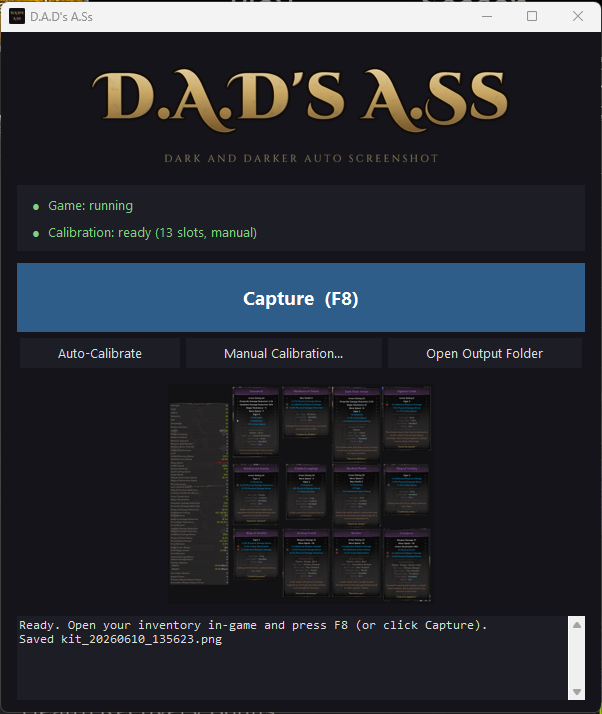
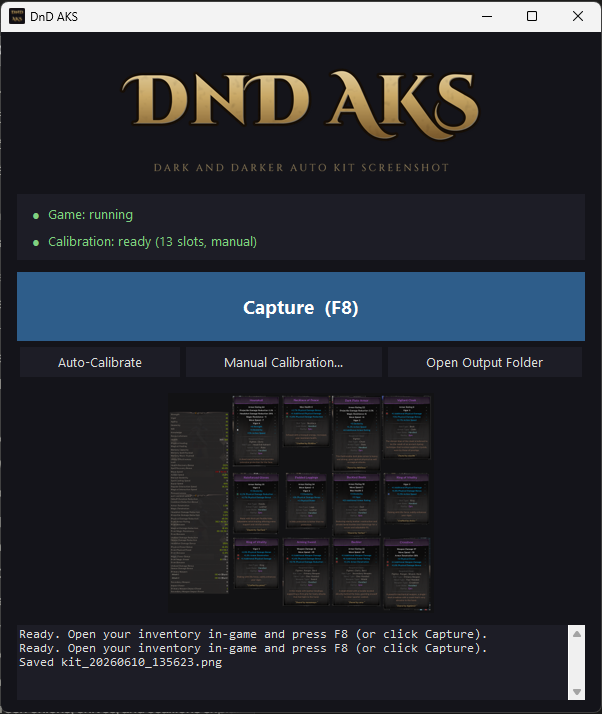
Rebrand to DnD AKS (Dark and Darker Auto Kit Screenshot)
Drops the previous joke name for a professional one suitable for
sharing on job sites / portfolios.

- Logo + icon regenerated (make_logo.py): 'DnD AKS' chiseled title,
  'Dark and Darker Auto Kit Screenshot' tagline
- GUI window title -> 'DnD AKS' (must stay free of the game's name so
  find_game_window can't match the app's own window), header logo +
  fallback text updated
- Calibration overlay titles -> 'DnD AKS — …'
- README title/alt + GUI hero screenshot refreshed
- VirusTotal verify section updated to the new build's SHA-256

Exe filename (AutoKitScreenshot.exe) and repo slug unchanged to keep
existing download links working.

diff --git a/gui.py b/gui.py
@@ -39,9 +39,10 @@ PREVIEW_MAX_H = 220
 class AutoKitGUI:
     def __init__(self):
         self.root = tk.Tk()
-        # NOTE: the title must NOT contain the game's name — find_game_window
-        # matches window titles, and we must never match ourselves.
-        self.root.title("D.A.D's A.Ss")
+        # NOTE: the title must NOT contain the game's name ("Dark and Darker")
+        # — find_game_window() matches window titles, so a title with the game
+        # name would make the tool match itself. Keep it as the acronym only.
+        self.root.title("DnD AKS")
         ico = resource_path("assets/icon.ico")
         if ico.exists():
             try:
@@ -79,9 +80,9 @@ class AutoKitGUI:
         if self._logo_photo is not None:
             tk.Label(self.root, image=self._logo_photo, bg=BG).pack(pady=(14, 2))
         else:
-            tk.Label(self.root, text="D.A.D's A.Ss",
+            tk.Label(self.root, text="DnD AKS",
                      font=("Segoe UI", 16, "bold"), fg=FG, bg=BG).pack(pady=(14, 2))
-            tk.Label(self.root, text="Dark and Darker Auto Screenshot",
+            tk.Label(self.root, text="Dark and Darker Auto Kit Screenshot",
                      font=("Segoe UI", 9), fg=FG_DIM, bg=BG).pack()
 
         # Status panel

diff --git a/make_logo.py b/make_logo.py
@@ -1,5 +1,5 @@
 """
-Generate the D.A.D's A.Ss logo + exe icon in a Dark-and-Darker-ish style:
+Generate the DnD AKS logo + exe icon in a Dark-and-Darker-ish style:
 chiseled gold capitals, dark outline, weathered texture.
 
 Outputs:
@@ -115,10 +115,10 @@ def render_text(text, font_px, pad=None):
 
 
 def make_logo():
-    title = render_text("D.A.D's A.Ss", 110)
+    title = render_text("DnD AKS", 120)
 
     # tagline in lighter letterspaced caps
-    tag_text = "D A R K   A N D   D A R K E R   A U T O   S C R E E N S H O T"
+    tag_text = "D A R K   A N D   D A R K E R   A U T O   K I T   S C R E E N S H O T"
     tag_font = ImageFont.truetype(str(TAG_FONT), 17 * SS)
     probe = ImageDraw.Draw(Image.new("L", (8, 8)))
     tb = probe.textbbox((0, 0), tag_text, font=tag_font)
@@ -138,8 +138,8 @@ def make_logo():
 
 
 def make_icon():
-    line1 = render_text("D.A.D's", 96)
-    line2 = render_text("A.Ss", 96)
+    line1 = render_text("DnD", 104)
+    line2 = render_text("AKS", 104)
 
     side = max(line1.width, line2.width, line1.height + line2.height) + 24 * SS
     bg = Image.new("RGBA", (side, side), (16, 14, 20, 255))

diff --git a/calibrate.py b/calibrate.py
@@ -104,7 +104,7 @@ def run_calibration(parent=None, emit=print):
     Tk app instead of creating its own root."""
     steps = build_steps()
     overlay = CalibrationOverlay(
-        title="D&D Full Calibration",
+        title="DnD AKS — Full Calibration",
         intro="Open your inventory in-game with the Details panel CLOSED. "
               "Follow the prompts: hover each target and press SPACE.",
         steps=steps,

diff --git a/calibrate_stats.py b/calibrate_stats.py
@@ -51,7 +51,7 @@ def main():
     config = json.loads(CONFIG_PATH.read_text())
 
     overlay = CalibrationOverlay(
-        title="D&D Stats Calibration",
+        title="DnD AKS — Stats Calibration",
         intro="Open the inventory and click 'Open Details' first so the scroll bar is visible.",
         steps=STEPS,
     )

diff --git a/README.md b/README.md
@@ -1,6 +1,6 @@
-<p align="center"><img src="assets/logo.png" alt="D.A.D's A.Ss — Dark and Darker Auto Screenshot" width="560"></p>
+<p align="center"><img src="assets/logo.png" alt="DnD AKS — Dark and Darker Auto Kit Screenshot" width="560"></p>
 
-# AutoKitScreenshot
+# DnD AKS — Dark and Darker Auto Kit Screenshot
 
 Automated gear-and-stats screenshot tool for *Dark and Darker*. With your
 inventory open, press a hotkey and the tool hovers each gear slot, captures
@@ -42,10 +42,11 @@ This is expected for small unsigned programs that register global hotkeys
 and move the mouse — those are exactly the tool's features, and they
 pattern-match what AV heuristics look for. If you're cautious (good!):
 
-- **[VirusTotal scan of the v1.0.0 exe](https://www.virustotal.com/gui/file/b7c421c92b1cf05f026a79dd57e789c46f88e75f80e3dbd00c38c873a851a27a/detection)** —
-  you can verify your download is the same file by checking its SHA-256:
[1 lines of base64/hex data omitted]
-  (in PowerShell: `Get-FileHash AutoKitScreenshot.exe`)
+- **Verify your download** — this build's SHA-256 is
[1 lines of base64/hex data omitted]
+  (check yours in PowerShell with `Get-FileHash AutoKitScreenshot.exe`).
+  A [VirusTotal scan](https://www.virustotal.com/gui/file/10b6d6ef724a8497c49948aa8941f2ab195e216f28b8ffbccea048a0e6ed16e3/detection)
+  link for this build is published with each release.
 - The complete source code is this repository — read it, then run from
   source with `pip install -r requirements.txt` and `python autokit.py`,
   or build the exe yourself with `build.bat`.
@@ -169,8 +170,8 @@ pip install -r requirements.txt pyinstaller
 build.bat
 ```
 
-Produces `dist\AutoKitScreenshot.exe` (single file, console app). The exe
-keeps `slots.json` and `output\` next to itself. Detection geometry
+Produces `dist\AutoKitScreenshot.exe` (single file, windowed GUI app). The
+exe keeps `slots.json` and `output\` next to itself. Detection geometry
 (mask radii, blob sizes) auto-scales by `screen_height / 1440`, so the
 built-in profile plus scaling covers standard resolutions; the manual
 calibrator stays available as the escape hatch.